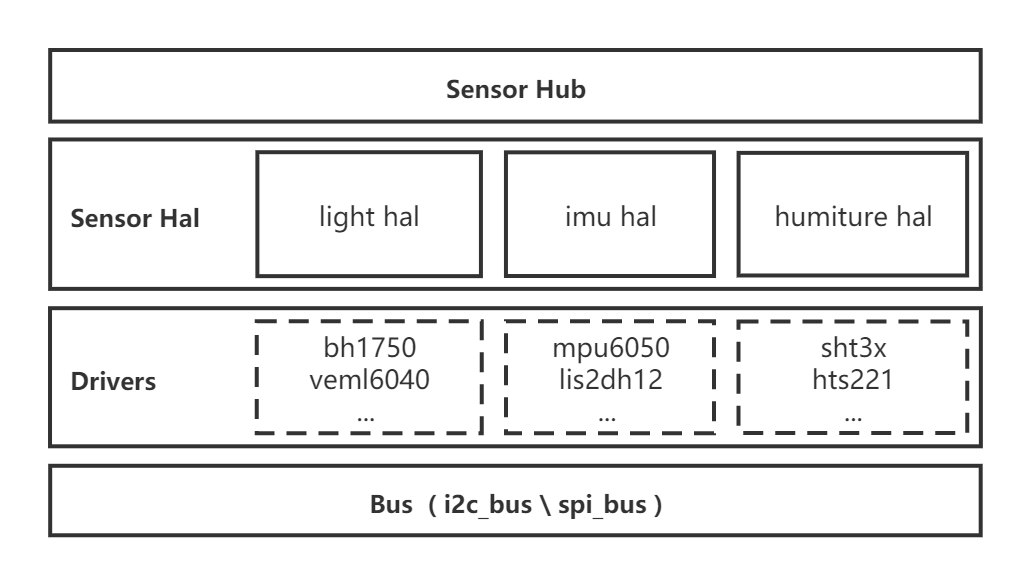
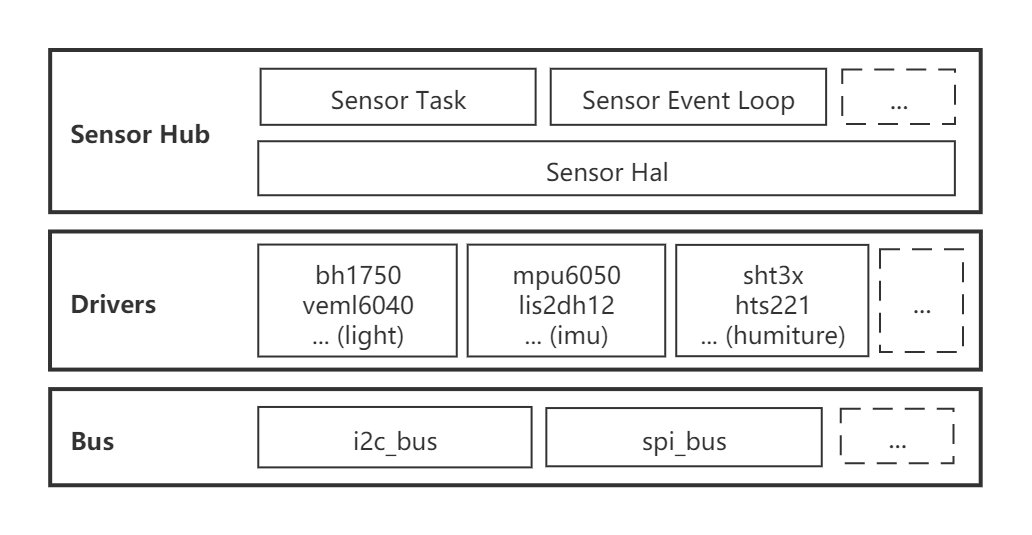
docs(sensor_hub): fix doc and add new diagram

Changed region(s): [[0.031, 0.0598, 0.9612, 0.9271], [0.8062, 0.8374, 0.8372, 0.8673]]

diff --git a/docs/zh_CN/sensors/sensor_hub.rst b/docs/zh_CN/sensors/sensor_hub.rst
@@ -3,11 +3,15 @@ Sensor Hub
 
 Sensor Hub 是一个传感器管理组件，可以实现对传感器设备的硬件抽象、设备管理和数据分发。基于 Sensor Hub 开发应用程序时，用户无需处理复杂的传感器实现，只需要对传感器的工作方式、采集间隔、量程等进行简单的选择，然后向关心的事件消息注册回调函数，即可在传感器状态切换或者数据采集好时收到通知。
 
-Sensor Hub 对常见的传感器类别进行了硬件抽象，用户在切换传感器型号时，无需修改上层应用程序，也可以通过实现硬件抽象层的传感器接口，将自己喜欢的传感器加入到 Sensor Hub 中。该组件由于实现了对传感器的集中管理，在简化操作的同时也提高了运行效率，可作为传感器应用的基础组件，应用环境感知、运动感知、健康管理等更多智能化场景中。
+Sensor Hub 对常见的传感器类别进行了硬件抽象，用户在切换传感器型号时，无需修改上层应用程序，也可以通过实现硬件抽象层的传感器接口添加新的传感器到 Sensor Hub 中。该组件由于实现了对传感器的集中管理，在简化操作的同时也提高了运行效率，可作为传感器应用的基础组件，应用在环境感知、运动感知、健康管理等更多智能化场景中。
 
 .. figure:: ../../_static/sensor_hub.png
     :align: center
-    :width: 75%
+    :width: 80%
+
+.. figure:: ../../_static/sensor_hub_diagram.png
+    :align: center
+    :width: 80%
 
 API 参考
 --------

diff --git a/docs/en/sensors/sensor_hub.rst b/docs/en/sensors/sensor_hub.rst
@@ -3,7 +3,7 @@ Sensor Hub
 
 
 API Reference
---------
+-------------
 
 .. include:: /_build/inc/sensor_type.inc
 
